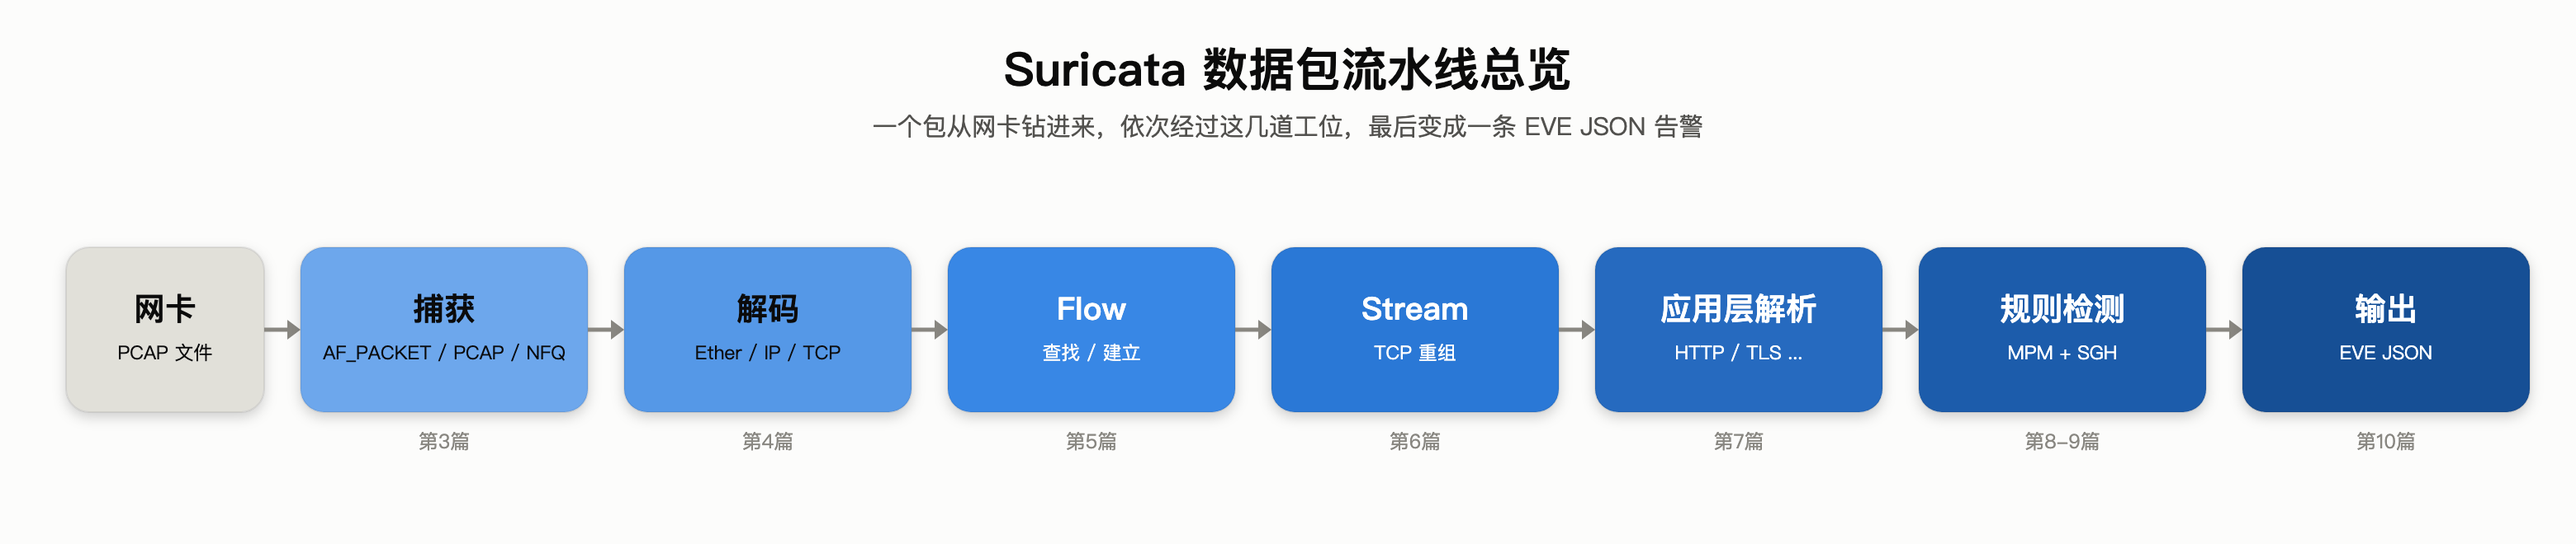
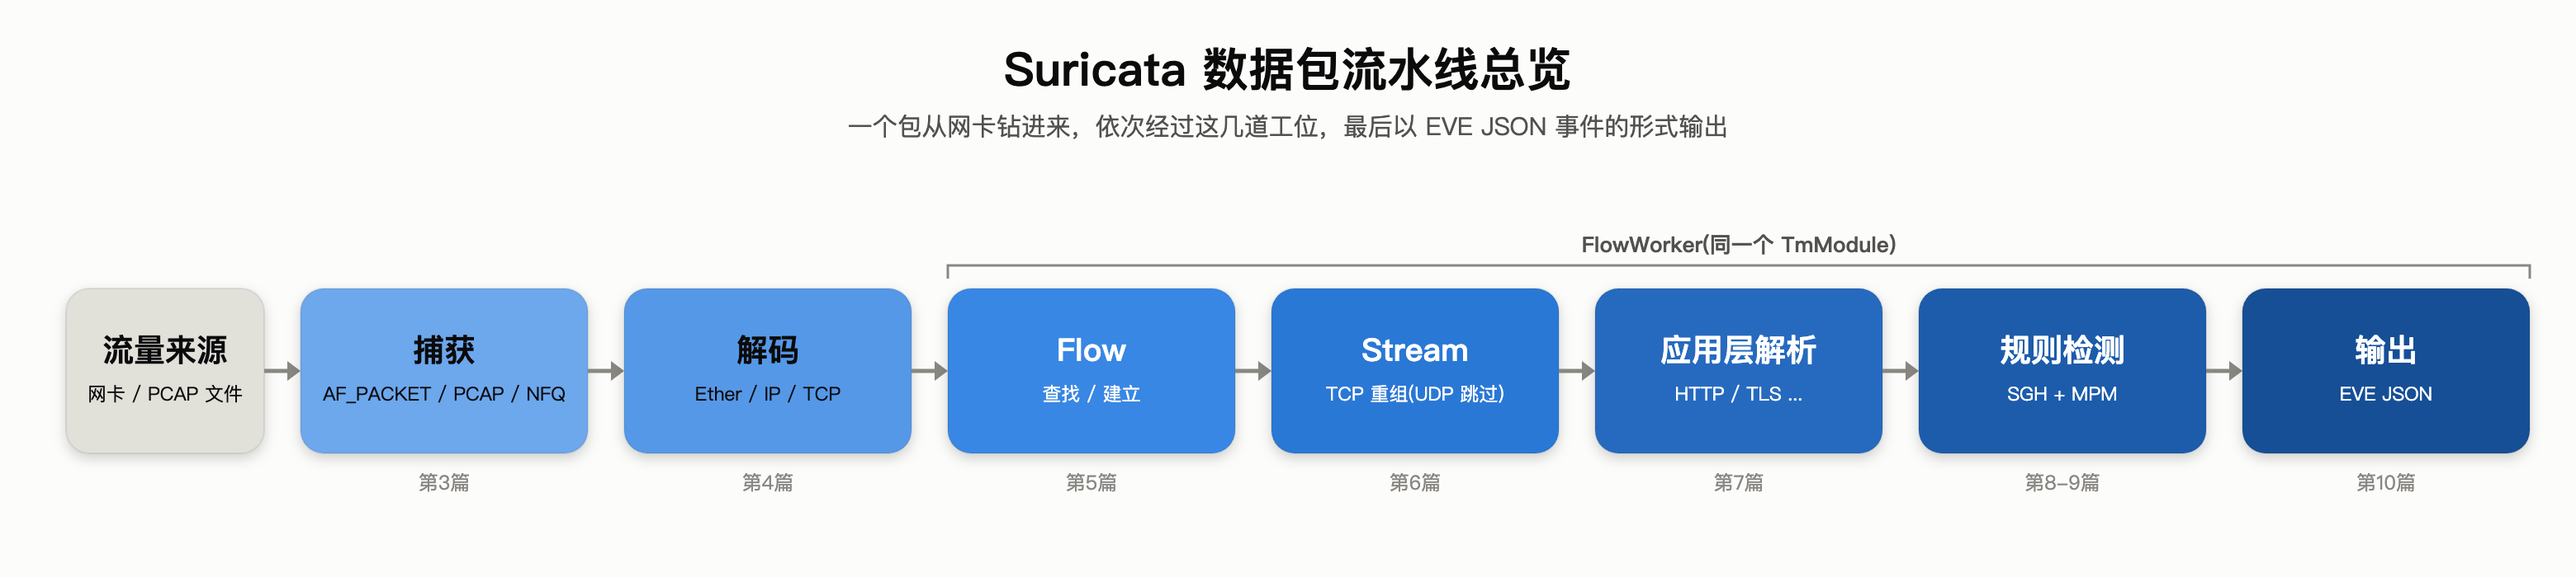
docs: fix pipeline diagram per 8.0.7 FlowWorker (group stages, UDP skip, event output)

diff --git a/docs/source-reading/scripts/gen_pipeline.py b/docs/source-reading/scripts/gen_pipeline.py
@@ -2,19 +2,19 @@
 import os
 OUT_DIR = os.path.join(os.path.dirname(os.path.abspath(__file__)), '..', 'images')
 
-W, H = 1560, 330
+W, H = 1560, 350
 box_w, box_h = 174, 100
 gap = 22
 start_x = 40
-top_y = 150
+top_y = 175
 
 stages = [
     ("捕获", "AF_PACKET / PCAP / NFQ", "#6da7ec", "#0b0b0b", "第3篇"),
     ("解码", "Ether / IP / TCP", "#5598e7", "#0b0b0b", "第4篇"),
     ("Flow", "查找 / 建立", "#3987e5", "#ffffff", "第5篇"),
-    ("Stream", "TCP 重组", "#2a78d6", "#ffffff", "第6篇"),
+    ("Stream", "TCP 重组(UDP 跳过)", "#2a78d6", "#ffffff", "第6篇"),
     ("应用层解析", "HTTP / TLS ...", "#256abf", "#ffffff", "第7篇"),
-    ("规则检测", "MPM + SGH", "#1c5cab", "#ffffff", "第8-9篇"),
+    ("规则检测", "SGH + MPM", "#1c5cab", "#ffffff", "第8-9篇"),
     ("输出", "EVE JSON", "#184f95", "#ffffff", "第10篇"),
 ]
 
@@ -29,7 +29,7 @@ parts.append("""<filter id="softshadow" x="-20%" y="-20%" width="140%" height="1
 
 # title
 parts.append(f'<text x="{W/2}" y="52" text-anchor="middle" font-size="28" font-weight="700" fill="#0b0b0b">Suricata 数据包流水线总览</text>')
-parts.append(f'<text x="{W/2}" y="82" text-anchor="middle" font-size="15" fill="#52514e">一个包从网卡钻进来，依次经过这几道工位，最后变成一条 EVE JSON 告警</text>')
+parts.append(f'<text x="{W/2}" y="82" text-anchor="middle" font-size="15" fill="#52514e">一个包从网卡钻进来，依次经过这几道工位，最后以 EVE JSON 事件的形式输出</text>')
 
 def rounded_box(x, y, w, h, fill, text_top, text_bottom, text_color, radius=14):
     s = f'<rect x="{x}" y="{y}" width="{w}" height="{h}" rx="{radius}" fill="{fill}" stroke="rgba(11,11,11,0.08)" stroke-width="1" filter="url(#softshadow)"/>'
@@ -44,14 +44,17 @@ def arrow(x1, y, x2, color="#898781"):
 
 # source box
 sx, sy = start_x, top_y
-parts.append(rounded_box(sx, sy, source_w, box_h, "#e1e0d9", "网卡", "PCAP 文件", "#0b0b0b"))
+parts.append(rounded_box(sx, sy, source_w, box_h, "#e1e0d9", "流量来源", "网卡 / PCAP 文件", "#0b0b0b"))
 
 x = sx + source_w
 mid_y = top_y + box_h/2
 parts.append(arrow(x, mid_y, x+gap))
 x += gap
 
+fw_x = []  # Flow ~ 输出 五个工位都在 FlowWorker() 里
 for i, (title, sub, color, tcolor, ep) in enumerate(stages):
+    if i >= 2:
+        fw_x.append(x)
     parts.append(rounded_box(x, top_y, box_w, box_h, color, title, sub, tcolor))
     # episode tag
     parts.append(f'<text x="{x+box_w/2}" y="{top_y+box_h+22}" text-anchor="middle" font-size="12" fill="#898781">{ep}</text>')
@@ -59,6 +62,11 @@ for i, (title, sub, color, tcolor, ep) in enumerate(stages):
     if i != len(stages)-1:
         parts.append(arrow(x, mid_y, x+gap))
     x += gap
+
+# FlowWorker 括线
+bx1, bx2, by = fw_x[0], fw_x[-1] + box_w, top_y - 14
+parts.append(f'<path d="M {bx1} {by+8} L {bx1} {by} L {bx2} {by} L {bx2} {by+8}" fill="none" stroke="#898781" stroke-width="1.5"/>')
+parts.append(f'<text x="{(bx1+bx2)/2}" y="{by-8}" text-anchor="middle" font-size="13" font-weight="700" fill="#52514e">FlowWorker(同一个 TmModule)</text>')
 
 parts.append('</svg>')
 
